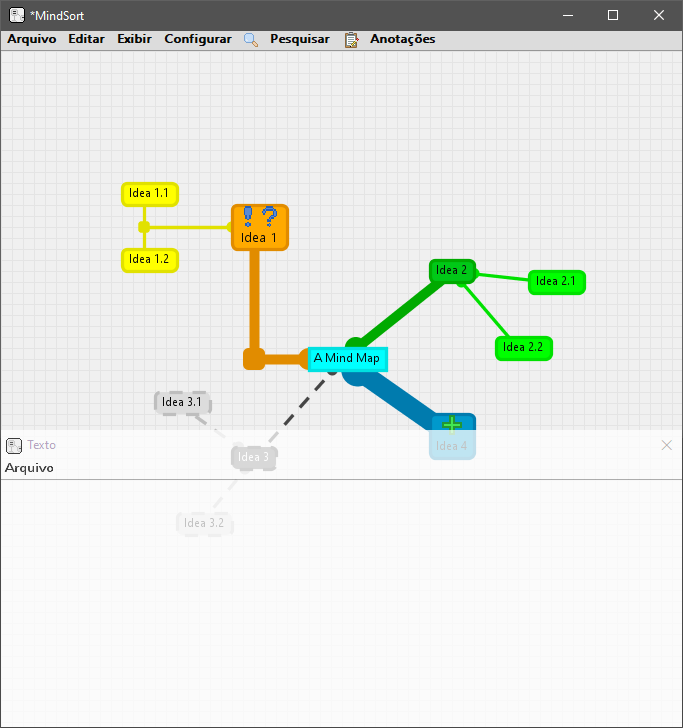
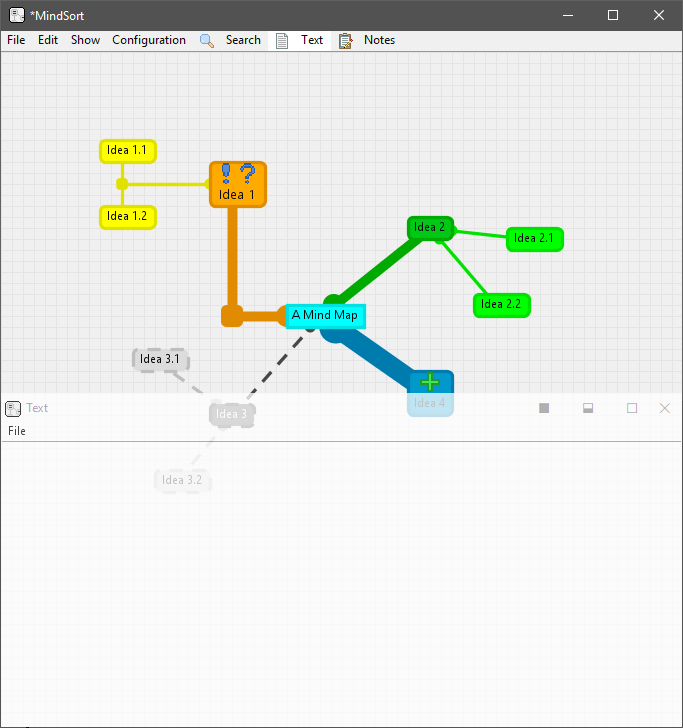
Minor Update

diff --git a/MindSort/src/main/janela/Janela.java b/MindSort/src/main/janela/Janela.java
@@ -143,16 +143,16 @@ public class Janela{
 	private Rectangle getLimitedBounds(Rectangle newBounds){
 		if(janelaPai.getWidth()>janelaPai.getHeight()){//HORIZONTAL
 			final int widthMax=janelaPai.getWidth()-(janelaPai.getWidth()/5);
-			final int width=(horizontal==false?dialogDefaultWidth:Math.min(widthMax,newBounds.width));
+			final int width=(horizontal==false?getDialogDefaultWidth():Math.min(widthMax,newBounds.width));
 			newBounds.setSize(width,janelaPai.getHeight()-janelaPai.getInsets().top);
 			dialogDefaultWidth=width;
 			horizontal=true;
 			newBounds.setLocation(janelaPai.getX()+janelaPai.getWidth()-janelaVidro.getWidth(),janelaPai.getY()+janelaPai.getInsets().top);
 		}else{//VERTICAL
 			final int heightMax=janelaPai.getHeight()-(janelaPai.getHeight()/5);
-			final int height=(horizontal==true?dialogDefaultHeight:Math.min(heightMax,newBounds.height));
+			final int height=(horizontal==true?getDialogDefaultHeight():Math.min(heightMax,newBounds.height));
 			newBounds.setSize(janelaPai.getWidth(),height);
-			dialogDefaultWidth=height;
+			dialogDefaultHeight=height;
 			horizontal=false;
 			newBounds.setLocation(janelaPai.getX(),janelaPai.getY()+janelaPai.getHeight()-janelaVidro.getHeight());
 		}

diff --git a/MindSort/src/main/MindSort.java b/MindSort/src/main/MindSort.java
@@ -1028,7 +1028,8 @@ public class MindSort{
 					MindSort.getLang().get("M_Err2","Error: Style couldn't be configured!"),
 					Options.AVISO);
 		}
-		final String lang=Locale.getDefault().getLanguage()+"-"+Locale.getDefault().getCountry();
+//		final String lang=Locale.getDefault().getLanguage()+"-"+Locale.getDefault().getCountry();
+		final String lang="EN-US";
 		getLanguageFolder(lang);	//CARREGA IDIOMA, SE EXISTE 
 		MindSort.getLang().setLanguage(lang);
 		Tree.getLang().setLanguage(lang);
@@ -1229,7 +1230,7 @@ public class MindSort{
 		final File iniLink=new File(System.getProperty("user.dir")+"/"+ini);
 		if(iniLink.exists())try{
 			for(String linha:Files.readAllLines(iniLink.toPath(),StandardCharsets.UTF_8)){
-				final Matcher match=Pattern.compile("^\t?\t?([^=\n]+)=+").matcher(linha);
+				final Matcher match=Pattern.compile("^\t{0,}([^=\n]+)=+").matcher(linha);
 				if(match.find())switch(match.group(1)){
 				//ÁREA DA JANELA
 					case "x_Window":					janela.setLocation(getInteger(linha),janela.getY());						break;

diff --git a/MindSort/src/main/janela/JanelaVidro.java b/MindSort/src/main/janela/JanelaVidro.java
@@ -43,7 +43,7 @@ public class JanelaVidro extends JDialog{
 		final int size=Borda.TOP_WIDTH-Borda.SHADOW;
 		setSize(size*2,size);
 		setLegenda(MindSort.getLang().get("M_Tx_Me","Medium"));
-		setTitulo("◧");
+		setTitulo("◨");
 		getCores().setBackgroundOnHover(new Color(100,100,100));
 		getCores().setBackgroundOnActive(new Color(118,118,117));
 		setVisible(true);
@@ -163,11 +163,19 @@ public class JanelaVidro extends JDialog{
 		SMed.setLegenda(MindSort.getLang().get("M_Tx_Me","Medium"));
 		SMax.setLegenda(MindSort.getLang().get("M_Tx_Ma","Maximus"));
 	}
+	private void setSizeIcons(){
+		if(getOwner().getWidth()>getOwner().getHeight()){//HORIZONTAL
+			SMed.setTitulo("◨");
+		}else{
+			SMed.setTitulo("⬓");
+		}
+	}
 //DRAW
 @Override
 	public void paint(Graphics imagemEdit){
 		final Graphics2D imagemEdit2D=(Graphics2D)imagemEdit;
 	//BORDA
+		setSizeIcons();
 		getBorda().draw(imagemEdit2D);
 	//FUNDO
 		imagemEdit2D.setColor(Color.WHITE);
